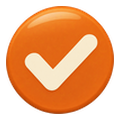
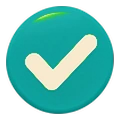
Space-Age Pop: Blip menu to its concept (wide panel, cream italic strip text, white italic My Skins tab, picture swatches, 19pt italic rows with rules, teal check disc)

diff --git a/css/fullskins-space-age.css b/css/fullskins-space-age.css
@@ -752,3 +752,25 @@ html body.fs.fs-blip[data-fs-variant="space-age"] .gv-staff-role { background: #
   html body.fs.fs-blip[data-fs-variant="space-age"] #page-shop :is(.skin-card h4, .skin-card-name, .page-grid h4) { font-style: italic !important; color: #222321 !important; }
   html body.fs.fs-blip[data-fs-variant="space-age"] :is(#shopTabs, #mySkinsTabs) .search-tab { padding: 0 11px !important; font-size: 14px !important; }
 }
+
+/* ======================================================================================================== BLIP MENU (phone) — ref/space-age/menu-a.png
+   wide panel (x 36-386) with the thick orange rim and the teal strip; "My Skins" white italic heading tab; rows 43pt, picture swatches as
+   rounded rectangles 56x36, 20pt bold italic names, thin rules between; the equipped row a pale bar with the teal check disc */
+@media (max-width: 768px) {
+  html body.fs.fs-blip[data-fs-variant="space-age"] .blip-menu { left: 36px !important; width: calc(100vw - 52px) !important; max-width: 360px; }
+  html body.fs.fs-blip[data-fs-variant="space-age"] .blip-menu-side { width: 66px !important; flex-basis: 66px !important; }
+  html body.fs.fs-blip[data-fs-variant="space-age"] .blip-menu-side span { font: italic 800 34px var(--fs-title-font) !important; color: #fff6de !important; }
+  html body.fs.fs-blip[data-fs-variant="space-age"] .blip-menu-side i { width: 54px !important; height: 54px !important; background-image: var(--fs-mascot-head-plain) !important; }
+  html body.fs.fs-blip[data-fs-variant="space-age"] .blip-menu-list h4 { align-self: flex-start; display: inline-flex; align-items: center; height: 34px; padding: 0 24px; margin: 4px 0 8px !important;
+    font: italic 800 25px/34px var(--fs-title-font) !important; color: #fff6de !important; border: 0 solid transparent; border-image: var(--fs-heading-tab) 0 72 fill / 0 17px stretch; }
+  html body.fs.fs-blip[data-fs-variant="space-age"] .blip-row { min-height: 43px !important; gap: 12px !important; padding: 3px 10px 3px 4px !important; border-bottom: 1.5px solid #cdb48e !important; border-radius: 0 !important; }
+  html body.fs.fs-blip[data-fs-variant="space-age"] .blip-row.blip-more, html body.fs.fs-blip[data-fs-variant="space-age"] .blip-row:has(+ hr) { border-bottom: 0 !important; }
+  html body.fs.fs-blip[data-fs-variant="space-age"] .blip-row span { font: italic 800 19px var(--fs-title-font) !important; color: #222321 !important; }
+  html body.fs.fs-blip[data-fs-variant="space-age"] .blip-sw { width: 56px !important; height: 36px !important; flex: 0 0 56px !important; border-radius: 9px !important; }
+  html body.fs.fs-blip[data-fs-variant="space-age"] .blip-sw::after { display: none !important; }
+  html body.fs.fs-blip[data-fs-variant="space-age"] .blip-sw-default { background-color: #fde9cf !important; background-size: contain !important; }
+  html body.fs.fs-blip[data-fs-variant="space-age"] .blip-sw-bag { width: 30px !important; flex-basis: 30px !important; margin: 0 13px; }
+  html body.fs.fs-blip[data-fs-variant="space-age"] .blip-check { width: 30px !important; height: 30px !important; flex-basis: 30px !important; }
+  html body.fs.fs-blip[data-fs-variant="space-age"] .blip-menu hr { display: none !important; }
+}
+@media (max-width: 768px) { html body.fs.fs-blip[data-fs-variant="space-age"] .blip-sw-bag { width: 32px !important; height: 32px !important; flex-basis: 32px !important; background-size: contain !important; margin: 0 12px !important; } }

diff --git a/prototypes/tools/space_age_chrome.py b/prototypes/tools/space_age_chrome.py
@@ -185,6 +185,7 @@ def build():
     out.append(save(pill((700, 130), (29, 5, 672, 125), 'cream', (240, 205, 165), 5), 'menu-row-on'))
     out.append(save(vivid('bubble-out', .02, .13, OR_BODY), 'bubble-out'))
     out.append(save(vivid('bubble-in', .4, .6, TE_BODY), 'bubble-in'))
+    out.append(save(vivid('menu-check', .02, .13, TE_BODY), 'menu-check'))   # concept: teal check disc
     # sheet (300x300, open bottom, 70 70 0 70 / 22px): cream with a thin tan rim
     sh = card((300, 400), (5, 4, 295, 396), 70, 9, 'tan', CREAM).crop((0, 0, 300, 300)); out.append(save(sh, 'sheet'))
     return out
